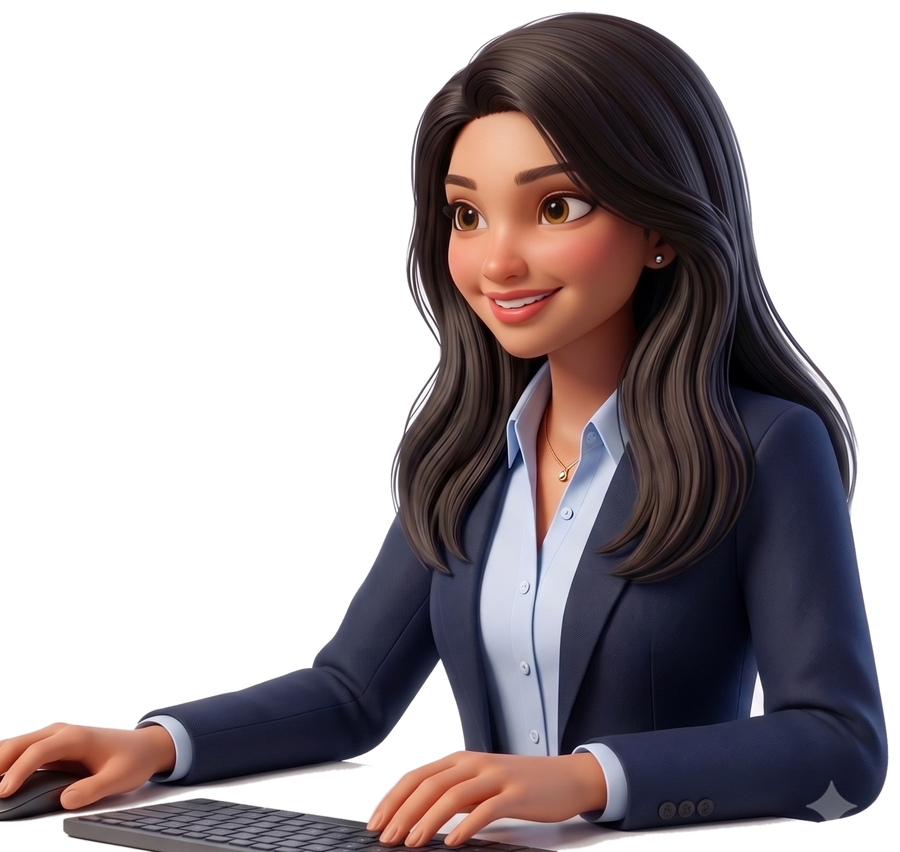
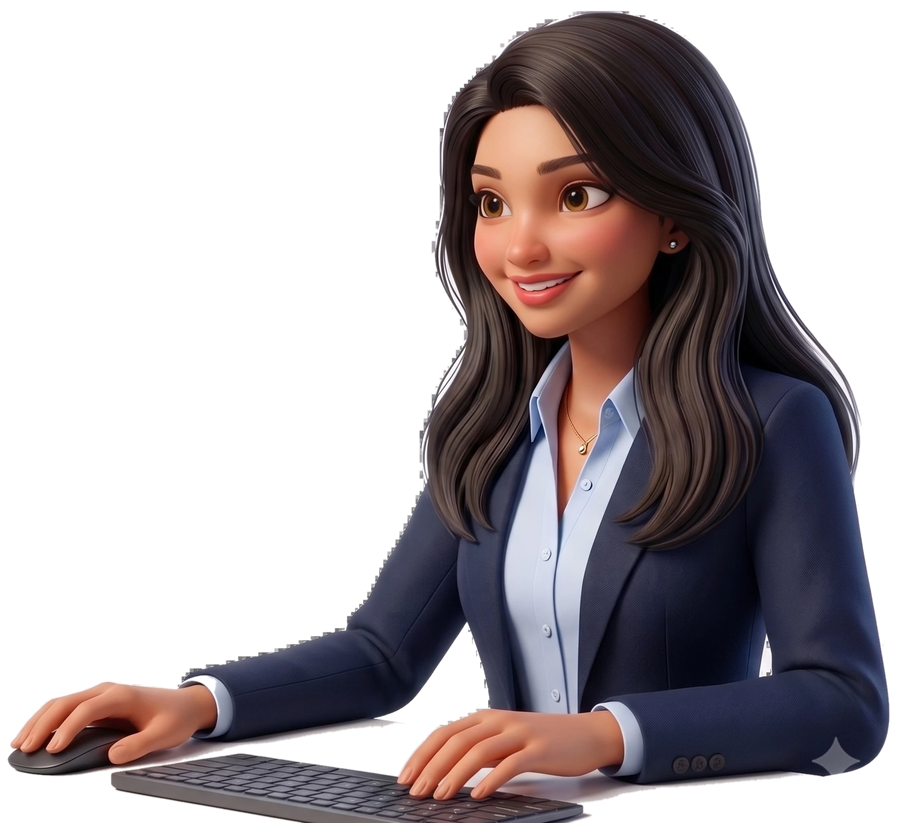
auto-commit for 73245851-42d3-4d73-871a-cd00f5456b66

Changed region(s): [[0.0, 0.0, 0.9956, 1.0], [0.8089, 0.6683, 0.8711, 0.729]]

diff --git a/frontend/src/components/portfolio/Navbar.jsx b/frontend/src/components/portfolio/Navbar.jsx
@@ -59,7 +59,8 @@ export const Navbar = () => {
           ))}
           <a
             href={PROFILE.resumeUrl}
-            download
+            target="_blank"
+            rel="noopener noreferrer"
             data-testid="nav-resume-btn"
             className="border border-[#00FF94] px-4 py-2 font-mono text-xs uppercase tracking-[0.15em] text-[#00FF94] transition-colors hover:bg-[#00FF94] hover:text-black"
           >
@@ -97,11 +98,12 @@ export const Navbar = () => {
               ))}
               <a
                 href={PROFILE.resumeUrl}
-                download
+                target="_blank"
+                rel="noopener noreferrer"
                 data-testid="nav-mobile-resume"
                 className="mt-2 border border-[#00FF94] px-4 py-3 text-center font-mono text-sm uppercase tracking-[0.15em] text-[#00FF94]"
               >
-                Download Resume
+                View Resume
               </a>
             </div>
           </motion.div>

diff --git a/frontend/src/components/portfolio/Contact.jsx b/frontend/src/components/portfolio/Contact.jsx
@@ -146,11 +146,12 @@ export const Contact = () => {
 
             <a
               href={PROFILE.resumeUrl}
-              download
+              target="_blank"
+              rel="noopener noreferrer"
               data-testid="contact-resume-download"
               className="flex items-center justify-center gap-3 border border-[#00FF94] py-5 font-mono text-xs uppercase tracking-[0.15em] text-[#00FF94] transition-colors hover:bg-[#00FF94] hover:text-black"
             >
-              <FileText size={16} /> Download Résumé (PDF)
+              <FileText size={16} /> View Résumé (PDF)
             </a>
           </motion.div>
         </div>

diff --git a/frontend/public/index.html b/frontend/public/index.html
@@ -21,7 +21,7 @@
         work correctly both with client-side routing and a non-root public URL.
         Learn how to configure a non-root public URL by running `npm run build`.
         -->
-        <title>Emergent | Fullstack App</title>
+        <title>Archi's</title>
         <script>window.addEventListener("error",function(e){if(e.error instanceof DOMException&&e.error.name==="DataCloneError"&&e.message&&e.message.includes("PerformanceServerTiming")){e.stopImmediatePropagation();e.preventDefault()}},true);</script>
         <script src="https://assets.emergent.sh/scripts/emergent-main.js"></script>
     </head>

diff --git a/frontend/src/components/portfolio/Hero.jsx b/frontend/src/components/portfolio/Hero.jsx
@@ -112,7 +112,8 @@ export const Hero = () => {
           </button>
           <a
             href={PROFILE.resumeUrl}
-            download
+            target="_blank"
+            rel="noopener noreferrer"
             data-testid="hero-read-resume"
             className="flex items-center gap-2 border border-white/20 px-7 py-4 font-mono text-xs uppercase tracking-[0.15em] text-white transition-colors hover:border-[#00FF94] hover:text-[#00FF94]"
           >

diff --git a/frontend/src/components/portfolio/Avatar.jsx b/frontend/src/components/portfolio/Avatar.jsx
@@ -271,7 +271,7 @@ export const Avatar = () => {
         <div className="absolute inset-0 rounded-full bg-[radial-gradient(circle_at_center,transparent_55%,rgba(5,5,5,0.7)_100%)]" />
 
         <motion.img
-          src="/avatar.png"
+          src="/avatar.png?v=2"
           alt="Archi's AI assistant"
           className="relative z-[1] w-full"
           style={{

diff --git a/frontend/src/data/portfolio.js b/frontend/src/data/portfolio.js
@@ -5,7 +5,7 @@ export const PROFILE = {
   role: "AI/ML Engineer",
   location: "Raipur, India",
   email: "singhalarchi583@gmail.com",
-  resumeUrl: "/Archi_Singhal_Resume.pdf",
+  resumeUrl: "https://drive.google.com/file/d/1y5-U6qjV5twincrkOAJFqvotMqpbAEB1/view?usp=sharing",
   badge: "OPEN TO WORK",
   headlineName: "ARCHI",
   subtitle: "Aspiring AI/ML Engineer",

diff --git a/backend/remove_bg.py b/backend/remove_bg.py
@@ -2,7 +2,7 @@ import numpy as np
 from PIL import Image, ImageFilter
 from scipy import ndimage
 
-src = "/app/frontend/public/avatar.png"
+src = "/tmp/newavatar.webp"
 img = Image.open(src).convert("RGBA")
 arr = np.array(img)
 rgb = arr[:, :, :3].astype(np.int16)
